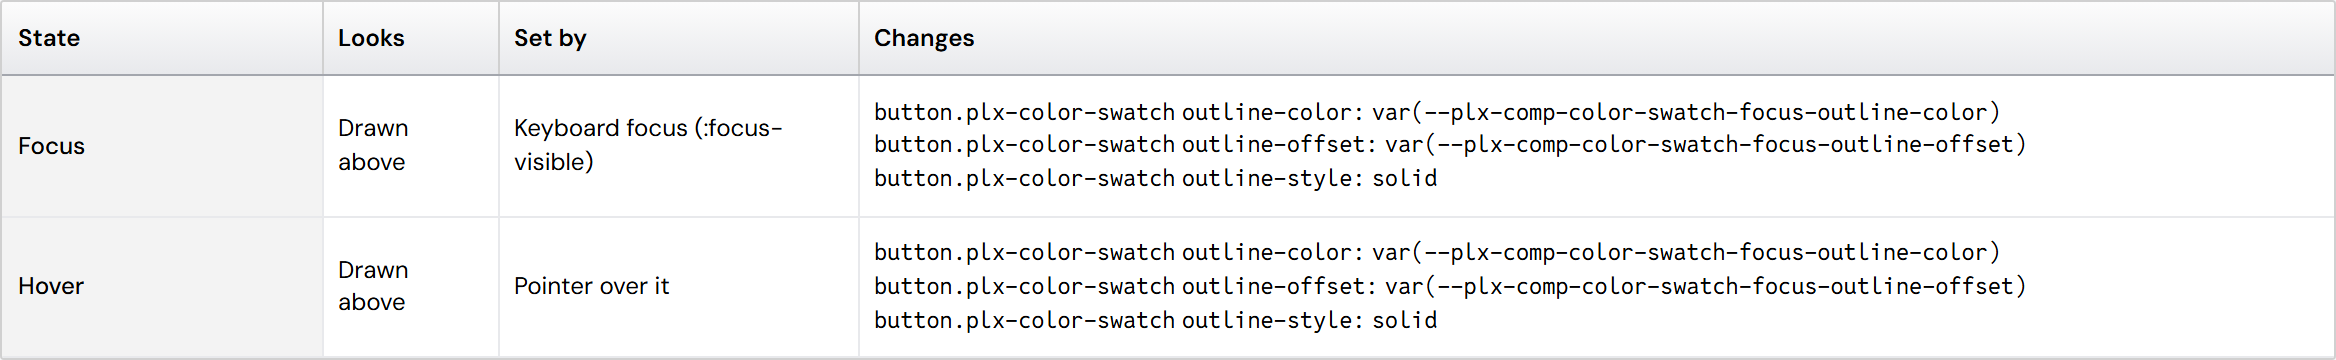
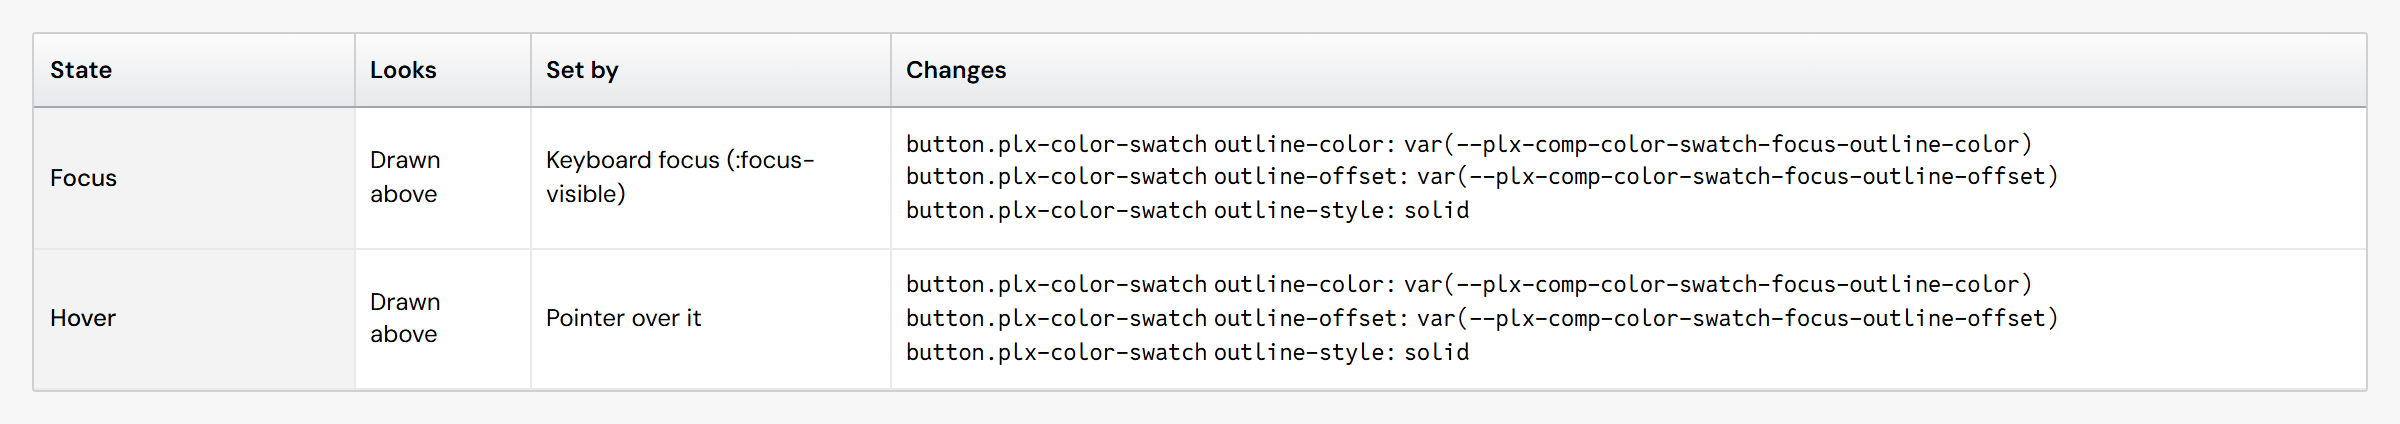
Review pages: grid lines and table spacing pictures retaken whole, with space around, no frame around them
Grid lines (#310): every table whole (was cut at 720x200), 16px of page around it, one under the other;
before from c7801866 (just before #310), after from styling/phase-2 8252f0f9. Table spacing: unframed.

diff --git a/docs/briefs/grid-lines-hover/index.html b/docs/briefs/grid-lines-hover/index.html
@@ -9,6 +9,7 @@
 <link rel="stylesheet" href="../../../platform/system/fonts.css">
 <link rel="stylesheet" href="../../../platform/platform.css">
 <link rel="stylesheet" href="../review.css">
+<link rel="stylesheet" href="page.css">
 </head>
 <body class="rv-page">
 <main class="rv-doc">
@@ -18,18 +19,18 @@
     <h2 class="rv-h2">Built (your answers of 2026-10-24)</h2>
     <p class="rv-lead">Frame, heading line and frozen edge in one color (gray 400); the Table's header now as tall as the
       grid's (28px at Compact, was 36px); the menu part's hover is the column's shade one step darker; the resize cursor stays
-      for the whole drag (one cover, no work while moving). Before on the left, after on the right.</p>
-    <div class="rv-pair">
-      <figure class="rv-fig"><img src="built-before-grid.png" alt="Before: grid frame and frozen line light"><figcaption><span class="rv-tag">BEFORE · GRID</span></figcaption></figure>
-      <figure class="rv-fig"><img src="built-after-grid.png" alt="After: grid frame and the line after Name gray 400"><figcaption><span class="rv-tag">AFTER · GRID</span> · frame and the edge after "Name" gray 400</figcaption></figure>
+      for the whole drag (one cover, no work while moving). Before above, after below. Pictures retaken 2026-10-26, whole and unframed: before = the commit just before #310 (c7801866), after = styling/phase-2 today (8252f0f9).</p>
+    <div class="ts-stack">
+      <figure class="ts-shot"><img src="built-before-grid.png" alt="Before: grid frame and frozen line light"><figcaption class="ts-cap"><span class="rv-tag">BEFORE · GRID</span></figcaption></figure>
+      <figure class="ts-shot"><img src="built-after-grid.png" alt="After: grid frame and the line after Name gray 400"><figcaption class="ts-cap"><span class="rv-tag">AFTER · GRID</span> · frame and the edge after "Name" gray 400</figcaption></figure>
     </div>
-    <div class="rv-pair">
-      <figure class="rv-fig"><img src="built-before-table.png" alt="Before: Table header 36px, light frame"><figcaption><span class="rv-tag">BEFORE · TABLE</span> · header 36px</figcaption></figure>
-      <figure class="rv-fig"><img src="built-after-table.png" alt="After: Table header 28px, frame and frozen edge gray 400"><figcaption><span class="rv-tag">AFTER · TABLE</span> · header 28px like the grid; frame and frozen edge gray 400</figcaption></figure>
+    <div class="ts-stack">
+      <figure class="ts-shot"><img src="built-before-table.png" alt="Before: Table header 36px, light frame"><figcaption class="ts-cap"><span class="rv-tag">BEFORE · TABLE</span> · header 36px</figcaption></figure>
+      <figure class="ts-shot"><img src="built-after-table.png" alt="After: Table header 28px, frame and frozen edge gray 400"><figcaption class="ts-cap"><span class="rv-tag">AFTER · TABLE</span> · header 28px like the grid; frame and frozen edge gray 400</figcaption></figure>
     </div>
-    <div class="rv-pair">
-      <figure class="rv-fig"><img src="built-before-hover.png" alt="Before: flat gray menu part on hover"><figcaption><span class="rv-tag">BEFORE · HOVER</span></figcaption></figure>
-      <figure class="rv-fig"><img src="built-after-hover.png" alt="After: the menu part takes a darker shade"><figcaption><span class="rv-tag">AFTER · HOVER</span></figcaption></figure>
+    <div class="ts-stack">
+      <figure class="ts-shot"><img src="built-before-hover.png" alt="Before: flat gray menu part on hover"><figcaption class="ts-cap"><span class="rv-tag">BEFORE · HOVER</span></figcaption></figure>
+      <figure class="ts-shot"><img src="built-after-hover.png" alt="After: the menu part takes a darker shade"><figcaption class="ts-cap"><span class="rv-tag">AFTER · HOVER</span></figcaption></figure>
     </div>
   </section>
 
@@ -38,17 +39,17 @@
     <p class="rv-lead">Today the outer frame is gray 300, the line under the headings gray 400, and the line after a
       frozen first column gray 200 like every inside line. You asked for the frame to match the heading line, and the frozen
       column's line to be darker. Existing colors only.</p>
-    <div class="rv-pair">
-      <figure class="rv-fig"><img src="lines-today-grid.png" alt="Today: frame and frozen line light"><figcaption><span class="rv-tag">TODAY · GRID</span> · frame gray 300; the line after "Name" gray 200</figcaption></figure>
-      <figure class="rv-fig"><img src="lines-a-grid.png" alt="Option A: frame and frozen line gray 400"><figcaption><span class="rv-tag">A · GRID</span> · frame and the frozen line gray 400, the heading line's color</figcaption></figure>
+    <div class="ts-stack">
+      <figure class="ts-shot"><img src="lines-today-grid.png" alt="Today: frame and frozen line light"><figcaption class="ts-cap"><span class="rv-tag">TODAY · GRID</span> · frame gray 300; the line after "Name" gray 200</figcaption></figure>
+      <figure class="ts-shot"><img src="lines-a-grid.png" alt="Option A: frame and frozen line gray 400"><figcaption class="ts-cap"><span class="rv-tag">A · GRID</span> · frame and the frozen line gray 400, the heading line's color</figcaption></figure>
     </div>
-    <div class="rv-pair">
-      <figure class="rv-fig"><img src="lines-today-table.png" alt="Today: the table's frame and frozen line light"><figcaption><span class="rv-tag">TODAY · TABLE</span></figcaption></figure>
-      <figure class="rv-fig"><img src="lines-a-table.png" alt="Option A in the table"><figcaption><span class="rv-tag">A · TABLE</span> · the same: frame and frozen line gray 400</figcaption></figure>
+    <div class="ts-stack">
+      <figure class="ts-shot"><img src="lines-today-table.png" alt="Today: the table's frame and frozen line light"><figcaption class="ts-cap"><span class="rv-tag">TODAY · TABLE</span></figcaption></figure>
+      <figure class="ts-shot"><img src="lines-a-table.png" alt="Option A in the table"><figcaption class="ts-cap"><span class="rv-tag">A · TABLE</span> · the same: frame and frozen line gray 400</figcaption></figure>
     </div>
-    <div class="rv-pair">
-      <figure class="rv-fig"><img src="lines-b-grid.png" alt="Option B: frame gray 400, frozen line gray 300"><figcaption><span class="rv-tag">B · GRID</span> · frame gray 400; the frozen line one step lighter, gray 300 (darker than the inside lines, lighter than the frame)</figcaption></figure>
-      <figure class="rv-fig"><img src="lines-b-table.png" alt="Option B in the table"><figcaption><span class="rv-tag">B · TABLE</span></figcaption></figure>
+    <div class="ts-stack">
+      <figure class="ts-shot"><img src="lines-b-grid.png" alt="Option B: frame gray 400, frozen line gray 300"><figcaption class="ts-cap"><span class="rv-tag">B · GRID</span> · frame gray 400; the frozen line one step lighter, gray 300 (darker than the inside lines, lighter than the frame)</figcaption></figure>
+      <figure class="ts-shot"><img src="lines-b-table.png" alt="Option B in the table"><figcaption class="ts-cap"><span class="rv-tag">B · TABLE</span></figcaption></figure>
     </div>
     <p class="rv-rec"><strong>Suggestion:</strong> A. One dark line color for the frame, the heading line and the frozen
       edge: everything that holds the table together in one color, the inside lines lighter.</p>
@@ -58,9 +59,9 @@
     <h2 class="rv-h2">2 · The column menu part on hover</h2>
     <p class="rv-lead">Hovering a column gives it the silver hover shade; hovering its menu part (the ⌄) switches that part
       to a flat gray, a different look.</p>
-    <div class="rv-pair">
-      <figure class="rv-fig"><img src="hover-today.png" alt="Today: the hovered menu part is flat gray"><figcaption><span class="rv-tag">TODAY</span> · flat gray (gray 200)</figcaption></figure>
-      <figure class="rv-fig"><img src="hover-dark.png" alt="Proposed: the menu part takes the column's hover shade one step darker"><figcaption><span class="rv-tag">PROPOSED</span> · the column's hover shade, one step darker (gray 200 → gray 400)</figcaption></figure>
+    <div class="ts-stack">
+      <figure class="ts-shot"><img src="hover-today.png" alt="Today: the hovered menu part is flat gray"><figcaption class="ts-cap"><span class="rv-tag">TODAY</span> · flat gray (gray 200)</figcaption></figure>
+      <figure class="ts-shot"><img src="hover-dark.png" alt="Proposed: the menu part takes the column's hover shade one step darker"><figcaption class="ts-cap"><span class="rv-tag">PROPOSED</span> · the column's hover shade, one step darker (gray 200 → gray 400)</figcaption></figure>
     </div>
     <p class="rv-rec"><strong>Suggestion:</strong> the proposed shade, so the part reads as part of the column. (Or keep as is.)</p>
   </section>
@@ -71,9 +72,9 @@
       switches to whatever it is over (the column's grab hand), so the resize arrows seem to go "behind". Nothing keeps the
       resize cursor for the whole drag (DataGridEngine.jsx, startResize hands the drag to TanStack without it). At rest and on
       hover the grab area is on top, as it should be. The cursor is drawn in, since a screenshot cannot show it.</p>
-    <div class="rv-pair">
-      <figure class="rv-fig"><img src="cursor-today.png" alt="Today: dragging past the handle shows a grab hand"><figcaption><span class="rv-tag">TODAY</span> · mid-drag the cursor shows the grab hand</figcaption></figure>
-      <figure class="rv-fig"><img src="cursor-fixed.png" alt="Fixed: the resize arrows stay for the whole drag"><figcaption><span class="rv-tag">FIXED</span> · the resize arrows stay until you let go (as Windows Explorer)</figcaption></figure>
+    <div class="ts-stack">
+      <figure class="ts-shot"><img src="cursor-today.png" alt="Today: dragging past the handle shows a grab hand"><figcaption class="ts-cap"><span class="rv-tag">TODAY</span> · mid-drag the cursor shows the grab hand</figcaption></figure>
+      <figure class="ts-shot"><img src="cursor-fixed.png" alt="Fixed: the resize arrows stay for the whole drag"><figcaption class="ts-cap"><span class="rv-tag">FIXED</span> · the resize arrows stay until you let go (as Windows Explorer)</figcaption></figure>
     </div>
     <p class="rv-rec"><strong>Fix:</strong> while a resize drag is on, the whole page shows the resize cursor and nothing
       else reacts to the pointer; it ends when you let go. PR #303 (the Explorer grab areas) does not cause this and does not

diff --git a/docs/briefs/table-spacing-0695/index.html b/docs/briefs/table-spacing-0695/index.html
@@ -10,6 +10,7 @@
 <link rel="stylesheet" href="../../../platform/system/fonts.css">
 <link rel="stylesheet" href="../../../platform/platform.css">
 <link rel="stylesheet" href="../review.css">
+<link rel="stylesheet" href="page.css">
 </head>
 <body class="rv-page">
 <main class="rv-doc">
@@ -35,32 +36,32 @@
 
   <section class="rv-section">
     <h2 class="rv-h2">1 · A static Table with wrapped text (Compact)</h2>
-    <figure class="rv-fig"><img src="before-compact-table.png" alt="0.69.5: Focus is in the middle of the row, Drawn above and Keyboard focus a line lower than the code"><figcaption><span class="rv-tag">0.69.5</span> · "Focus" in the middle, "Drawn above" and "Keyboard focus" lower than the code</figcaption></figure>
-    <figure class="rv-fig"><img src="after-compact-table.png" alt="The fix: every cell starts on the same top line"><figcaption><span class="rv-tag">FIX (#331)</span> · every cell starts on the same top line</figcaption></figure>
+    <figure class="ts-shot"><img src="before-compact-table.png" alt="0.69.5: Focus is in the middle of the row, Drawn above and Keyboard focus a line lower than the code"><figcaption class="ts-cap"><span class="rv-tag">0.69.5</span> · "Focus" in the middle, "Drawn above" and "Keyboard focus" lower than the code</figcaption></figure>
+    <figure class="ts-shot"><img src="after-compact-table.png" alt="The fix: every cell starts on the same top line"><figcaption class="ts-cap"><span class="rv-tag">FIX (#331)</span> · every cell starts on the same top line</figcaption></figure>
   </section>
 
   <section class="rv-section">
     <h2 class="rv-h2">2 · The same Table (Standard)</h2>
-    <figure class="rv-fig"><img src="before-standard-table.png" alt="0.69.5 at Standard density"><figcaption><span class="rv-tag">0.69.5</span> · Standard</figcaption></figure>
-    <figure class="rv-fig"><img src="after-standard-table.png" alt="The fix at Standard density"><figcaption><span class="rv-tag">FIX (#331)</span> · Standard</figcaption></figure>
+    <figure class="ts-shot"><img src="before-standard-table.png" alt="0.69.5 at Standard density"><figcaption class="ts-cap"><span class="rv-tag">0.69.5</span> · Standard</figcaption></figure>
+    <figure class="ts-shot"><img src="after-standard-table.png" alt="The fix at Standard density"><figcaption class="ts-cap"><span class="rv-tag">FIX (#331)</span> · Standard</figcaption></figure>
   </section>
 
   <section class="rv-section">
     <h2 class="rv-h2">3 · A DataGrid with tall wrapped rows (Compact and Standard)</h2>
-    <figure class="rv-fig"><img src="before-compact-grid.png" alt="0.69.5 DataGrid with tall rows, every cell at the top"><figcaption><span class="rv-tag">0.69.5</span> · Compact: already at the top</figcaption></figure>
-    <figure class="rv-fig"><img src="after-compact-grid.png" alt="The fix: DataGrid unchanged, every cell at the top"><figcaption><span class="rv-tag">FIX (#331)</span> · Compact: unchanged, apart from the approved header</figcaption></figure>
-    <figure class="rv-fig"><img src="before-standard-grid.png" alt="0.69.5 DataGrid at Standard"><figcaption><span class="rv-tag">0.69.5</span> · Standard</figcaption></figure>
-    <figure class="rv-fig"><img src="after-standard-grid.png" alt="The fix: DataGrid at Standard"><figcaption><span class="rv-tag">FIX (#331)</span> · Standard</figcaption></figure>
+    <figure class="ts-shot"><img src="before-compact-grid.png" alt="0.69.5 DataGrid with tall rows, every cell at the top"><figcaption class="ts-cap"><span class="rv-tag">0.69.5</span> · Compact: already at the top</figcaption></figure>
+    <figure class="ts-shot"><img src="after-compact-grid.png" alt="The fix: DataGrid unchanged, every cell at the top"><figcaption class="ts-cap"><span class="rv-tag">FIX (#331)</span> · Compact: unchanged, apart from the approved header</figcaption></figure>
+    <figure class="ts-shot"><img src="before-standard-grid.png" alt="0.69.5 DataGrid at Standard"><figcaption class="ts-cap"><span class="rv-tag">0.69.5</span> · Standard</figcaption></figure>
+    <figure class="ts-shot"><img src="after-standard-grid.png" alt="The fix: DataGrid at Standard"><figcaption class="ts-cap"><span class="rv-tag">FIX (#331)</span> · Standard</figcaption></figure>
   </section>
 
   <section class="rv-section">
     <h2 class="rv-h2">4 · The spec's Color swatch States table (Compact and Standard)</h2>
     <p class="rv-lead">The first 520px of the Focus row. In 0.69.5 "Focus", "Drawn above" and "Keyboard focus" sit in the middle of this very tall row, out of view; with the fix they start at the top beside the code.</p>
     <div class="rv-grid">
-      <figure class="rv-fig"><img src="before-compact-spec.png" alt="0.69.5: the row's top shows only the code; the labels are further down"><figcaption><span class="rv-tag">0.69.5</span> · Compact: only the code at the top</figcaption></figure>
-      <figure class="rv-fig"><img src="after-compact-spec.png" alt="The fix: Focus, Drawn above and Keyboard focus at the top beside the code"><figcaption><span class="rv-tag">FIX (#331)</span> · Compact: every cell at the top</figcaption></figure>
-      <figure class="rv-fig"><img src="before-standard-spec.png" alt="0.69.5 at Standard"><figcaption><span class="rv-tag">0.69.5</span> · Standard</figcaption></figure>
-      <figure class="rv-fig"><img src="after-standard-spec.png" alt="The fix at Standard"><figcaption><span class="rv-tag">FIX (#331)</span> · Standard</figcaption></figure>
+      <figure class="ts-shot"><img src="before-compact-spec.png" alt="0.69.5: the row's top shows only the code; the labels are further down"><figcaption class="ts-cap"><span class="rv-tag">0.69.5</span> · Compact: only the code at the top</figcaption></figure>
+      <figure class="ts-shot"><img src="after-compact-spec.png" alt="The fix: Focus, Drawn above and Keyboard focus at the top beside the code"><figcaption class="ts-cap"><span class="rv-tag">FIX (#331)</span> · Compact: every cell at the top</figcaption></figure>
+      <figure class="ts-shot"><img src="before-standard-spec.png" alt="0.69.5 at Standard"><figcaption class="ts-cap"><span class="rv-tag">0.69.5</span> · Standard</figcaption></figure>
+      <figure class="ts-shot"><img src="after-standard-spec.png" alt="The fix at Standard"><figcaption class="ts-cap"><span class="rv-tag">FIX (#331)</span> · Standard</figcaption></figure>
     </div>
     <ul class="rv-list">
       <li><strong>A separate, older problem in this table</strong> (same in 0.69.5): the Changes column is squeezed so narrow that the code breaks every few letters, while the State column is very wide. It is the spec's column widths, not the row spacing. It can be a follow-up if you want it fixed.</li>

diff --git a/docs/briefs/grid-lines-hover/page.css b/docs/briefs/grid-lines-hover/page.css
@@ -1,0 +1,5 @@
+/* Grid lines review: each picture stands alone (no frame around it), its caption plain text under it. Tokens only. */
+.ts-shot{display:grid;margin:0;row-gap:var(--plx-sys-space-stack-xs);}
+.ts-shot img{block-size:auto;display:block;inline-size:100%;}
+.ts-cap{color:var(--plx-sys-content-muted);font-size:var(--plx-ref-font-size-13);}
+.ts-stack{display:grid;row-gap:var(--plx-sys-space-stack-lg);}

diff --git a/docs/briefs/table-spacing-0695/page.css b/docs/briefs/table-spacing-0695/page.css
@@ -1,0 +1,4 @@
+/* Table spacing review: each picture stands alone (no frame around it), its caption plain text under it. Tokens only. */
+.ts-shot{display:grid;margin:0;row-gap:var(--plx-sys-space-stack-xs);}
+.ts-shot img{block-size:auto;display:block;inline-size:100%;}
+.ts-cap{color:var(--plx-sys-content-muted);font-size:var(--plx-ref-font-size-13);}
